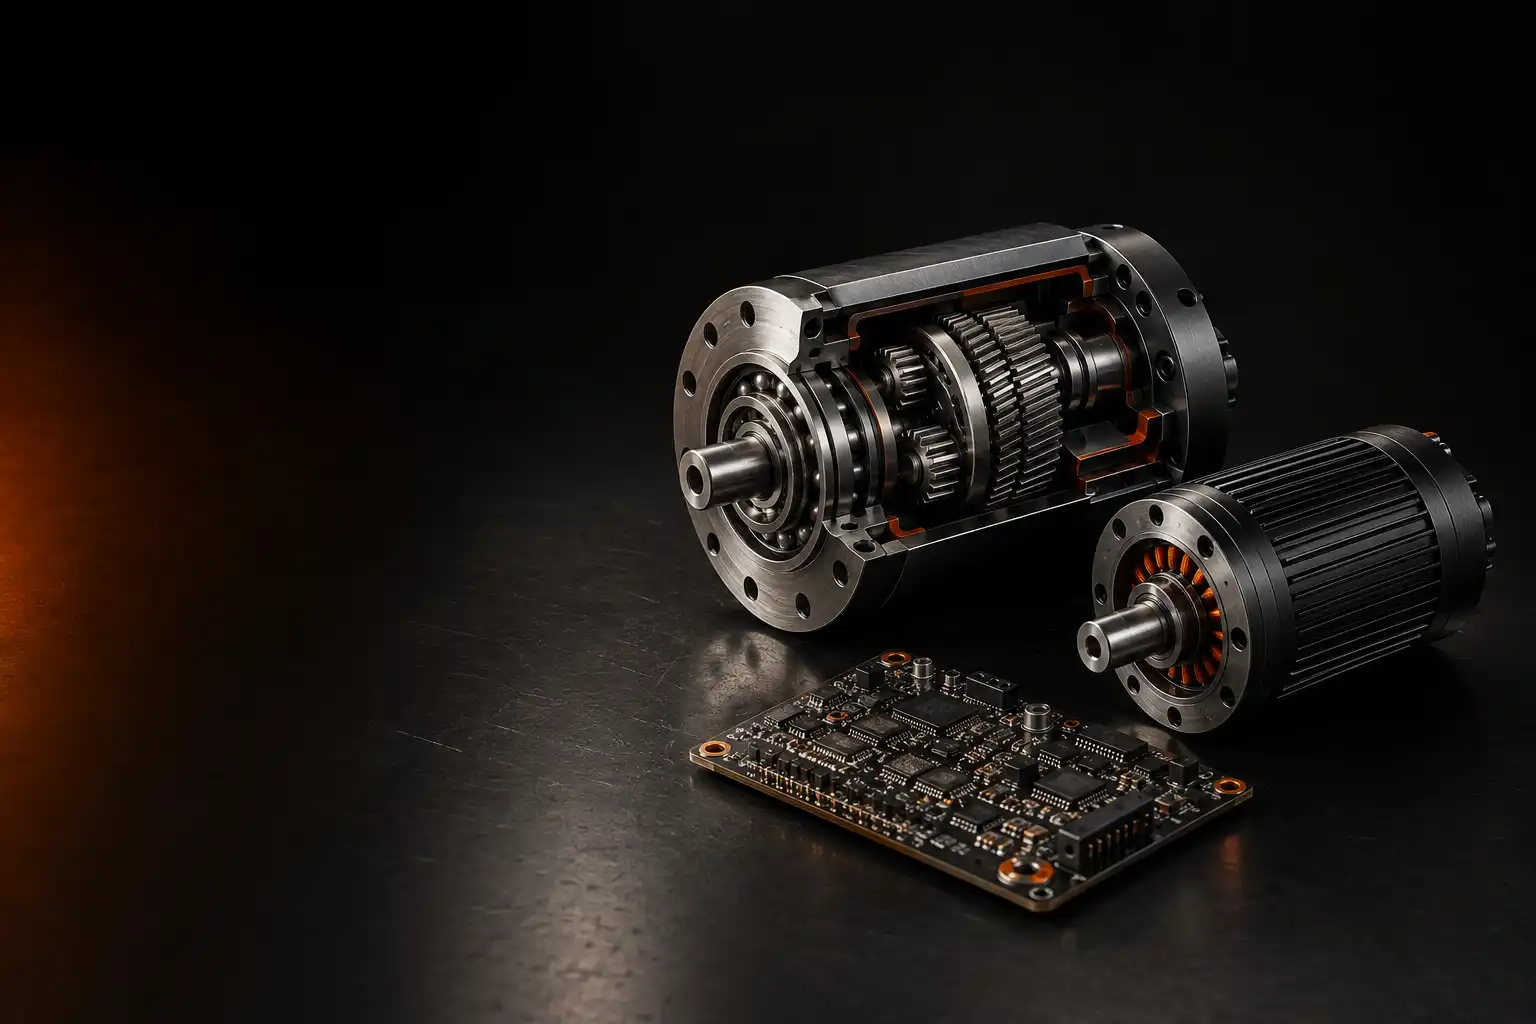
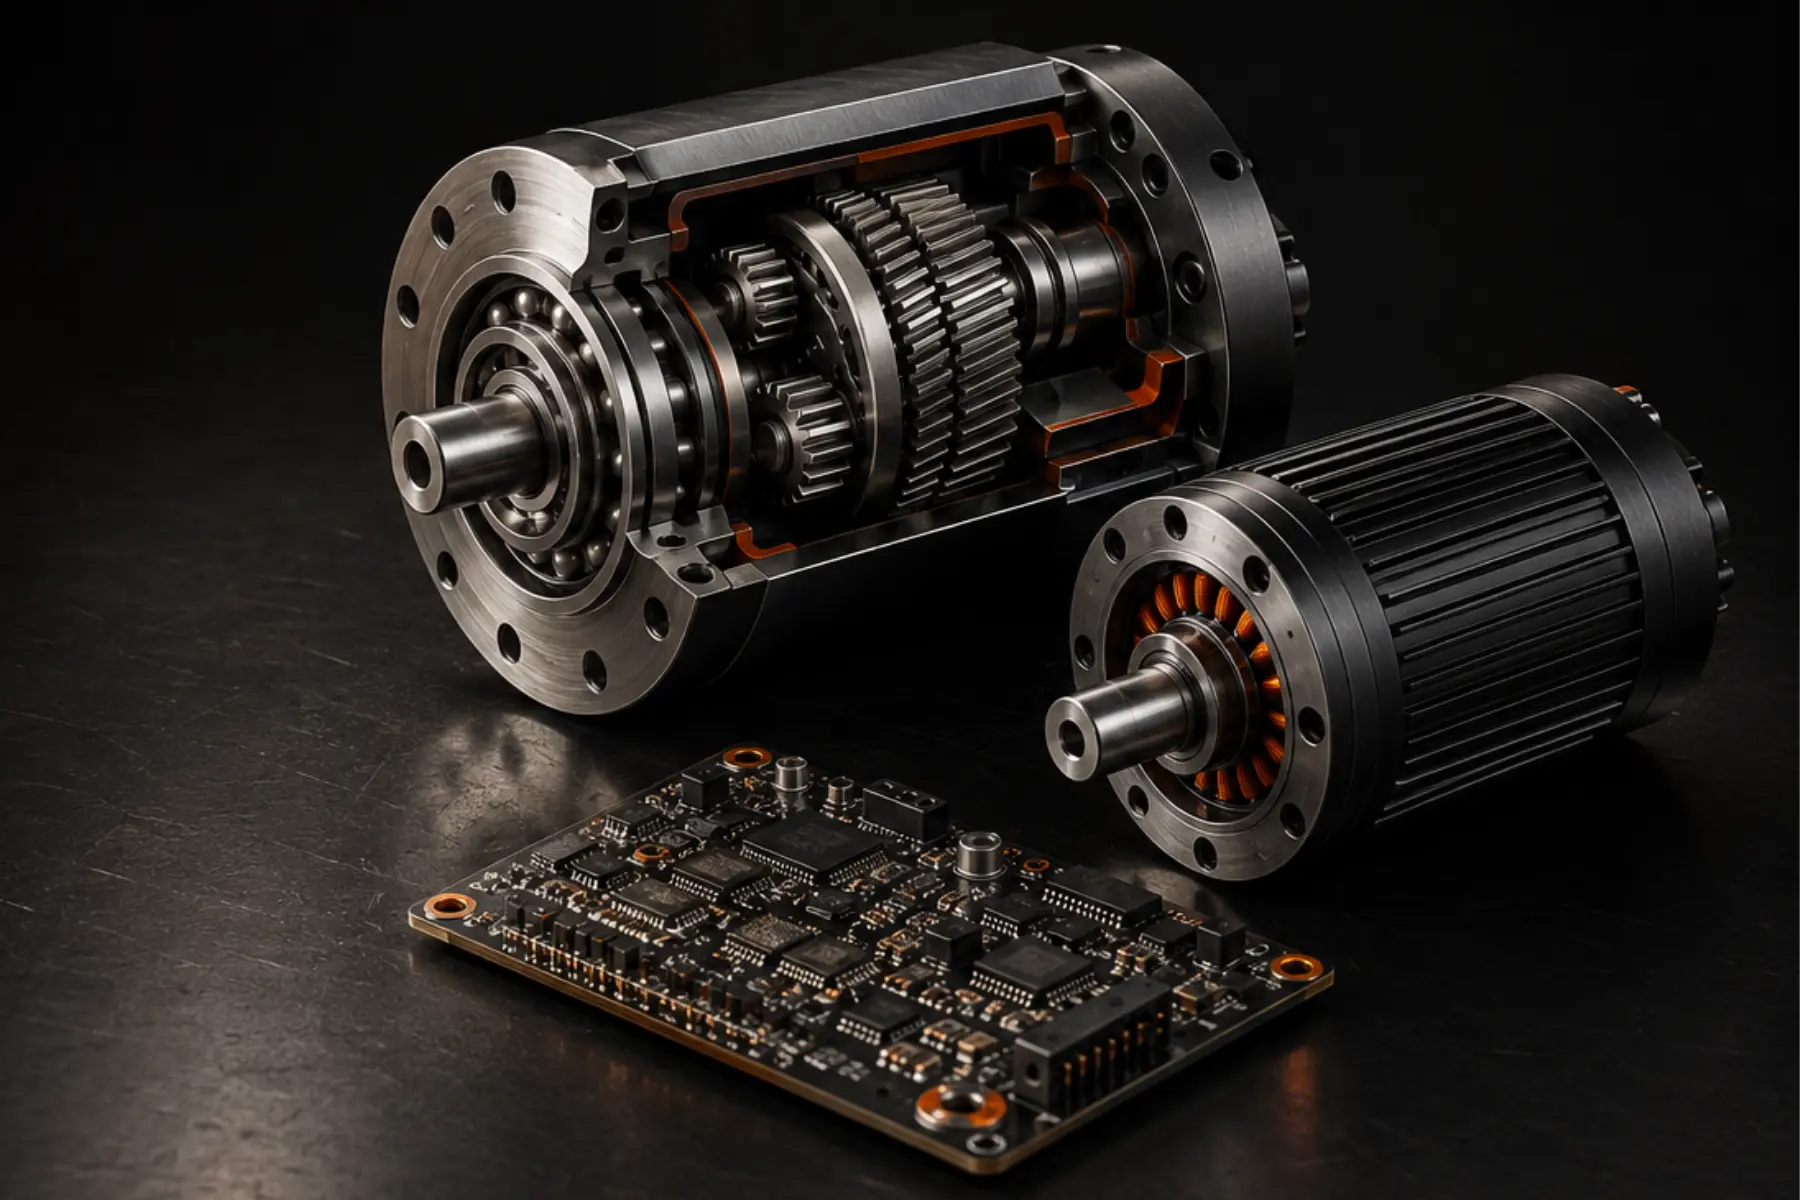
Switch OG preview to WebP

diff --git a/index.html b/index.html
@@ -16,7 +16,7 @@
     />
     <meta property="og:type" content="website" />
     <meta property="og:url" content="https://www.torrqe.com/" />
-    <meta property="og:image" content="https://www.torrqe.com/images/torrqe-og-preview.png" />
+    <meta property="og:image" content="https://www.torrqe.com/images/torrqe-og-preview.webp" />
     <meta property="og:image:width" content="1200" />
     <meta property="og:image:height" content="630" />
     <meta
@@ -29,7 +29,7 @@
       name="twitter:description"
       content="American precision motion systems for critical machines, combining motor control, zero-backlash transmission, advanced bearings, resilient materials, and oil-free surfaces."
     />
-    <meta name="twitter:image" content="https://www.torrqe.com/images/torrqe-og-preview.png" />
+    <meta name="twitter:image" content="https://www.torrqe.com/images/torrqe-og-preview.webp" />
     <link rel="icon" type="image/png" href="images/torrqe-favicon.png" />
     <link rel="apple-touch-icon" href="images/torrqe-favicon.png" />
     <link rel="stylesheet" href="styles.css" />

diff --git a/IMPLEMENTATION_REPORT.md b/IMPLEMENTATION_REPORT.md
@@ -55,7 +55,7 @@ This is a static project, so final assets should live in `/Users/amaeteumanah/De
 
 ## Image Path and Git Tracking Update
 
-All browser-facing image references use production-safe relative paths such as `images/hero-transmission-core.webp`, `images/torrqe-og-preview.png`, and `images/torrqe-favicon.png`. A local reference scan across `index.html`, `styles.css`, and `script.js` found 22 image paths and 0 missing files.
+All browser-facing image references use production-safe relative paths such as `images/hero-transmission-core.webp`, `images/torrqe-og-preview.webp`, and `images/torrqe-favicon.png`. A local reference scan across `index.html`, `styles.css`, and `script.js` found 22 image paths and 0 missing files.
 
 The final image files were present locally but were not yet tracked by Git. `git check-ignore -v images/*` returned no ignored files, so `git add -f images/*` was not needed. The image files are staged normally for the next commit. `.DS_Store` files are excluded via `.gitignore`.
 
@@ -63,7 +63,7 @@ During rebase, three duplicate image files from a GitHub upload were found at th
 
 ## Exact Image Filenames Expected
 
-`hero-transmission-core.webp`, `usa-motion-systems-map.webp`, `gear-bearing-motion-core.webp`, `motion-stack-gear-bearing-core.webp`, `motion-stack-advanced-bearing-elements.webp`, `motion-stack-superelastic-motion-materials.webp`, `motion-stack-oil-free-surface-system.webp`, `integrated-platform-electric-motor.webp`, `integrated-platform-torrqe-drive.webp`, `integrated-platform-output-joint.webp`, `integrated-platform-gear-bearing-core.webp`, `integrated-platform-advanced-bearing-elements.webp`, `integrated-platform-superelastic-materials.webp`, `integrated-platform-oil-free-surface-system.webp`, `target-system-humanoids.webp`, `target-system-quadrupeds.webp`, `target-system-robotic-arms.webp`, `target-system-uav-payloads.webp`, `target-system-ev-subsystems.webp`, `target-system-defense-motion.webp`, `torrqe-og-preview.png`, `torrqe-favicon.png`.
+`hero-transmission-core.webp`, `usa-motion-systems-map.webp`, `gear-bearing-motion-core.webp`, `motion-stack-gear-bearing-core.webp`, `motion-stack-advanced-bearing-elements.webp`, `motion-stack-superelastic-motion-materials.webp`, `motion-stack-oil-free-surface-system.webp`, `integrated-platform-electric-motor.webp`, `integrated-platform-torrqe-drive.webp`, `integrated-platform-output-joint.webp`, `integrated-platform-gear-bearing-core.webp`, `integrated-platform-advanced-bearing-elements.webp`, `integrated-platform-superelastic-materials.webp`, `integrated-platform-oil-free-surface-system.webp`, `target-system-humanoids.webp`, `target-system-quadrupeds.webp`, `target-system-robotic-arms.webp`, `target-system-uav-payloads.webp`, `target-system-ev-subsystems.webp`, `target-system-defense-motion.webp`, `torrqe-og-preview.webp`, `torrqe-favicon.png`.
 
 New placeholder image paths added for the five-layer motion systems update:
 
@@ -77,7 +77,7 @@ Recommended five-card Motion Stack card image size: `720 x 504 px` (`10:7`) for 
 
 Added the requested page title, primary meta description, canonical URL, Open Graph tags, Twitter card tags, favicon link, and Apple touch icon link. SEO copy now reflects American precision motion systems rather than transmission-only positioning.
 
-- OG image filename: `images/torrqe-og-preview.png`
+- OG image filename: `images/torrqe-og-preview.webp`
 - Favicon filename: `images/torrqe-favicon.png`
 - Canonical URL: `https://www.torrqe.com/`
 

diff --git a/IMAGE_ASSET_REPORT.md b/IMAGE_ASSET_REPORT.md
@@ -26,7 +26,7 @@
 | target-system-uav-payloads.webp | Target Systems | 960 | 620 | 48:31 | 80 KB | 110 KB | Low | Yes | UAV payload gimbal with Torrqe transmission fit points at yaw axis, pitch axis, and stabilized gimbal drive. | Below | Show payload/gimbal, not propeller motor. |
 | target-system-ev-subsystems.webp | Target Systems | 960 | 620 | 48:31 | 80 KB | 110 KB | Low | Yes | EV subsystem with Torrqe transmission fit points at steering actuator, wheel-end reduction, and corner module. | Below | Component-focused render works best. |
 | target-system-defense-motion.webp | Target Systems | 960 | 620 | 48:31 | 80 KB | 110 KB | Low | Yes | Defense motion assembly with Torrqe transmission fit points at traverse axis, elevation axis, and actuator transmission stage. | Below | Keep presentation public-facing and non-sensitive. |
-| torrqe-og-preview.png | SEO / Social Preview | 1200 | 630 | 1.91:1 | 150 KB | 300 KB | Metadata | No | Torrqe American precision transmissions for critical machines. | Not displayed | PNG used for Open Graph and Twitter preview at `images/torrqe-og-preview.png`; current local file measures 666 x 377 px and should be regenerated to 1200 x 630 when convenient. |
+| torrqe-og-preview.webp | SEO / Social Preview | 1200 | 630 | 1.91:1 | 150 KB | 300 KB | Metadata | No | Torrqe American precision transmissions for critical machines. | Not displayed | WebP used for Open Graph and Twitter preview at `images/torrqe-og-preview.webp`; current local file measures 1727 x 911 px and can be regenerated to 1200 x 630 when convenient. |
 | torrqe-favicon.png | Browser Favicon | 512 | 512 | 1:1 | 50 KB | 150 KB | Browser metadata | No | Torrqe favicon icon. | Browser icon | PNG referenced as favicon and Apple touch icon at `images/torrqe-favicon.png`; current local file measures 652 x 652 px. |
 
 ## Summary Table